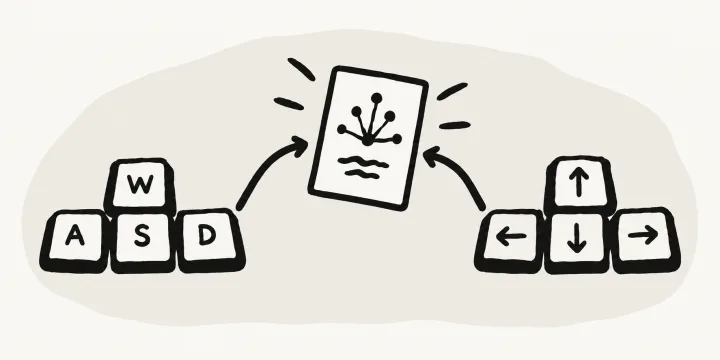
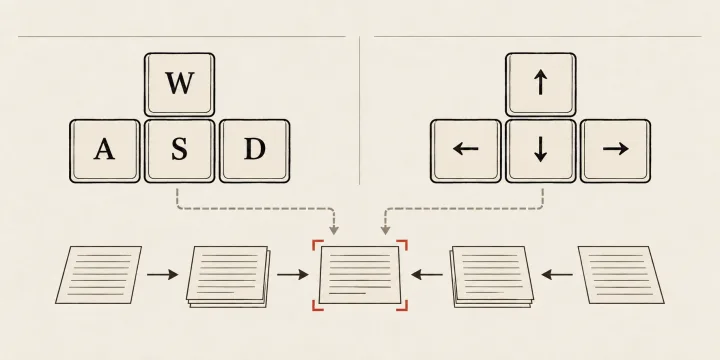
feat(guide): redraw onboarding illustrations
Regenerate all five guide plates with the project-local JIANZI art skill. Use Song-style newspaper diagrams, warm paper and ink, and the corrected interaction where a left collection tab moves onto a stationary card.

diff --git a/docs/guide-figures-handoff.md b/docs/guide-figures-handoff.md
@@ -1,8 +1,8 @@
 # JIANZI（见字）引导插图交接
 
-**日期**：2026-09-14  
-**状态**：§4 已就绪。可以出图。  
-**技能**：Codex 使用 [$anthropic-art](https://github.com/HalfAI1102/anthropic-art)（`$anthropic-art`）做生成与反复审查。不要另写一套生图模型提示词。  
+**日期**：2026-09-15<br>
+**状态**：新版插图已交付，等待前端挂钩。<br>
+**技能**：Codex 使用项目工作区的 `$jianzi-guide-art` 做生成与反复审查。不要退回 `$anthropic-art`，也不要另写一套生图模型提示词。<br>
 **对接**：插图落地后由前端把路径按顺序写入 `lib/guide.ts` 的 `GUIDE_BLOCKS`。本文件是唯一规格。
 
 ---
@@ -100,18 +100,21 @@ export const GUIDE_BLOCKS = [
 
 **状态：已就绪。**
 
-走 anthropic-art 的 **page-native**（页面原生），不要默认那套满版强调色。技能原文：用象牙 `#FAF9F5` 铺满画布，承载形用 `#F0EEE6` 或 `#E8E6DC` 与底分开。见字卡片纸是 `#f4efe4`，这三色挨着，印上去才是一块色版，不是另一张封面。
+走 `$jianzi-guide-art` 的 **page-native**（页面原生）。插图不是另一张品牌卡，也不是浮在卡片上的教程；它是一块已经印进剪报版面的操作图版。
 
 锁定：
 
-- 整张画布：象牙 `#FAF9F5`，四角不透明。不要 clay `#D97757`、cactus `#BCD1CA`、heather、sky、fig、coral、olive，也不要用见字的朱红 `--registration` 当底。
-- 承载形：不规则，`#F0EEE6` 或 `#E8E6DC`。不要再套一层满版强调色。
-- 线条：技能近黑 `#141413`，圆头、粗细不均、略抖。不要纯黑、不要细描线。
-- 结构仍是技能的三层（底 + 承载形 + 线），只是底改成象牙，不再是陶土橙/淡绿那种强调色场。
-- 键帽字母按 §3：W A S D、方向键、Enter、1 2 3、8 9 0，以及产品里已有的中文标签。除此之外不要句子。这是对技能默认「不要文字」的唯一例外，走 prompt contract 的 `Text (verbatim)`。
+- 整张画布：见字卡片纸 `#f4efe4`，四角不透明。不要 Anthropic 的 clay、cactus、heather、oat、olive、sky、fig、coral，也不要用见字的朱红 `--registration` 当底。
+- 墨色：暖近黑 `#1f1c18` 为主；栏线可用 `#cbc3b4`，少量承载填色可用 `#e2dac9`。不要纯黑。
+- 结构：用剪报矩形、分栏、栏线、索引耳、键帽图版和留白组织画面。不要 Anthropic 的大块云状承载形、放射节点、房子/地球/灯泡母题或抢画面的卡通巨手。
+- 线条：中等粗细、略有油墨不匀，像报纸里的编辑示意图；不要厚重卡通描边，也不要精细企业矢量图。
+- 字体：所有中文标签用宋体 / 明体印刷字；拉丁字母、数字、Enter、Shift 和箭头用相容的衬线印刷字。不要手写、圆体或 UI 无衬线体。
+- 朱砂 `#b5412f` 只允许做极少量套印偏移、动作轨迹或选中标记，面积低于约 5%。
+- 多个并列动作可以用报纸二栏或三栏图解，不必强压成一个中心英雄物。
+- 键帽文字按 §3：W A S D、方向键、Enter、Shift、1 2 3、8 9 0，以及产品里已有的中文标签。除此之外不要句子，走 prompt contract 的 `Text (verbatim)`。
 - 不要纸纹、渐变、阴影、3D、玻璃、贴纸。卡片本身已有纸纹，图里再画一层会脏。
 
-生成时在调用里写明 `page-native` / 页面原生，并点名上述色值。不要让技能退回满版 accent。
+生成时在调用里写明 `page-native` / 页面原生，并点名上述色值。风格参考只用见字品牌图，不加载 Anthropic 的房子、地球或手势参考。
 
 
 ---
@@ -126,7 +129,9 @@ export const GUIDE_BLOCKS = [
 4. WASD 和方向键是否在说同一件事。
 5. 触控板和 Windows 鼠标是否都在，没有只画苹果产品。
 6. 左标签是收藏（可拖到卡上），右标签是视图（点按，不拖）。没有画反，也没有把卡片画成可拖的文件。
-7. 有没有退回满版陶土橙、淡绿等强调色底。页面原生必须是象牙底。
+7. 有没有退回满版陶土橙、淡绿等强调色底。页面原生必须是 `#f4efe4` 纸色底。
+8. 中文是不是清楚的宋体 / 明体印刷字，有没有变成手写体、圆体或错字。
+9. 有没有重新出现 Anthropic 的大 blob、放射节点或卡通巨手。
 
 不合格就改同一张，不要另开一套构图充数。
 
@@ -146,10 +151,10 @@ export const GUIDE_BLOCKS = [
 
 | 文件名 | 实际宽高 | 体积 | 360px 宽验收 |
 | --- | ---: | ---: | --- |
-| `move.webp` | 720 × 360 | 11,794 bytes | 通过：WASD 与方向键仍能立刻辨认，两组键共同把同一张卡送到眼前。 |
-| `pointer.webp` | 720 × 360 | 16,860 bytes | 通过：触控板上的两指平移、鼠标滚轮、Shift 横移与中键按下拖动仍能分别看懂。 |
-| `open.webp` | 720 × 480 | 17,914 bytes | 通过：手指与 Enter 对应同一次翻纸，背面原文行、底部撕口和下方纸条仍清楚。 |
-| `file.webp` | 720 × 480 | 20,252 bytes | 通过：卡片向左拖动明确，三枚收藏标签及对应的 1 / 2 / 3 均可辨认。 |
-| `views.webp` | 720 × 480 | 21,874 bytes | 通过：右侧三枚索引标签与 8 / 9 / 0 一一对应，紧凑、宽松、列表三种排布仍清楚。 |
+| `move.webp` | 720 × 360 | 11,368 bytes | 通过：宋体 WASD 与方向键仍能立刻辨认，两套键沿同一轴线把卡片送到中央。 |
+| `pointer.webp` | 720 × 360 | 10,790 bytes | 通过：左栏两指平移、右栏滚轮纵移、Shift 横移与中键按下拖动仍能分别看懂。 |
+| `open.webp` | 720 × 480 | 11,510 bytes | 通过：手指与宋体 Enter 触发同一次翻纸，背面原文栏、撕口和下方纸条仍清楚。 |
+| `file.webp` | 720 × 480 | 11,196 bytes | 通过：手拿的是左侧「值得再读」标签，标签向右落到固定卡片；1 / 2 / 3 与三枚用途标签仍清楚。 |
+| `views.webp` | 720 × 480 | 16,160 bytes | 通过：右侧宋体索引标签与 8 / 9 / 0 一一对应，紧凑、宽松、列表三种排布仍清楚。 |
 
 五张文件均为不透明 WebP，四角有实色，无透明通道；均低于 120KB。缩小检查使用实际 360px 宽解码图完成。
